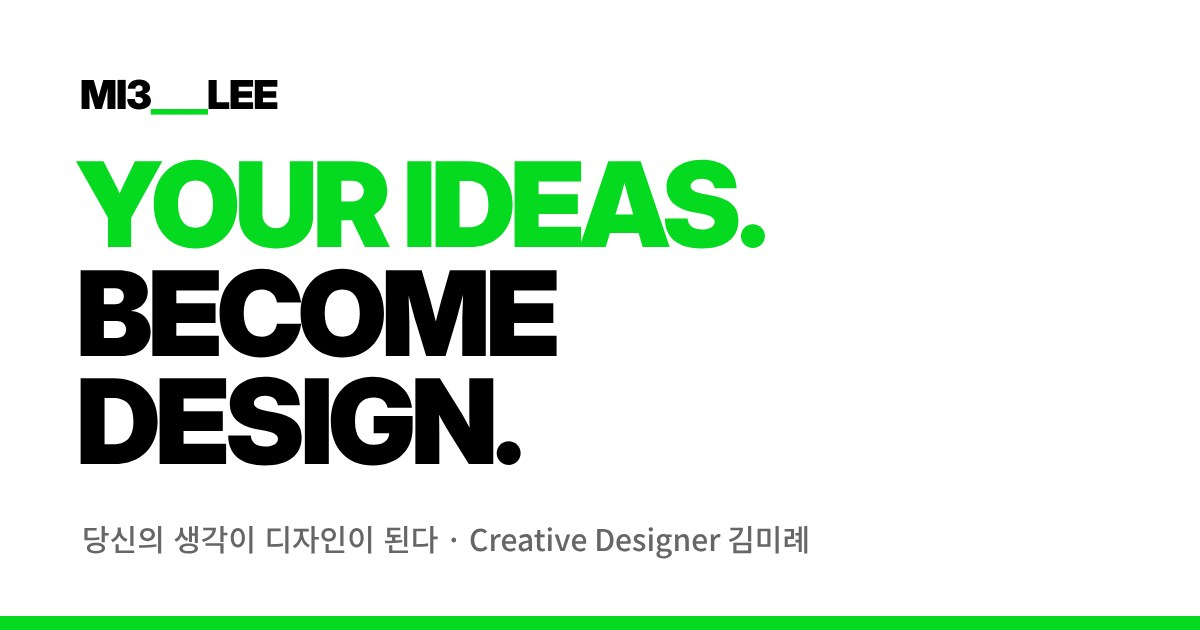
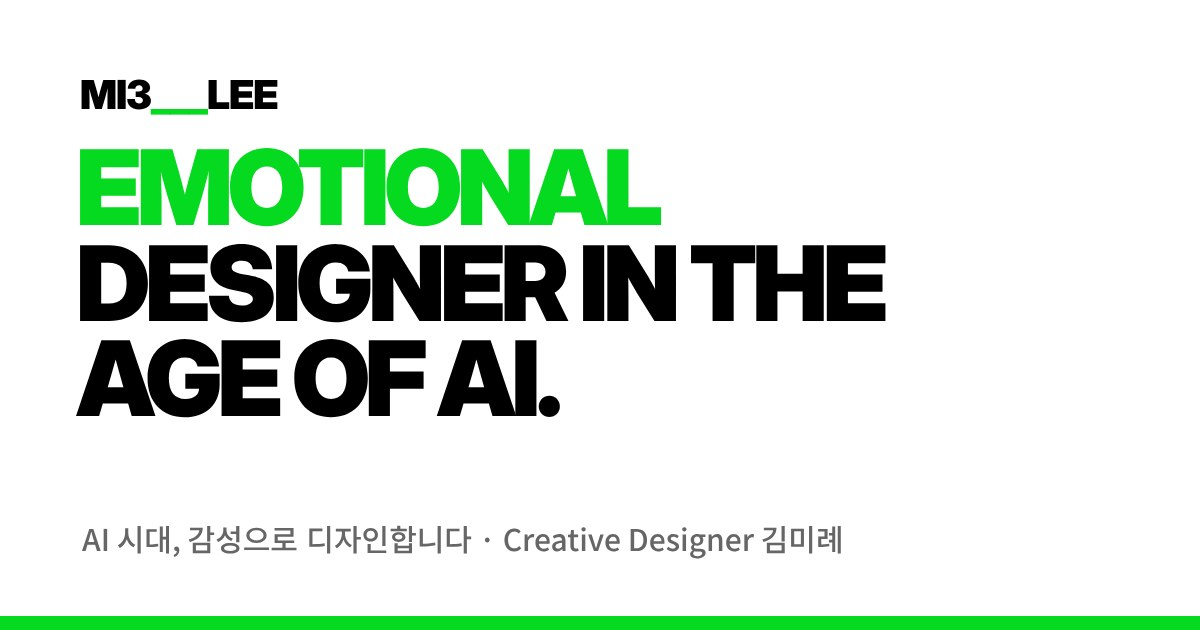
메인 한글 문구와 카톡 공유 이미지를 새 헤드라인에 맞춤
Claude-Session: https://claude.ai/code/session_01EREQmidBdEqMS7PWXq55ay

Changed region(s): [[0.0617, 0.2111, 0.74, 0.754], [0.0617, 0.8143, 0.7092, 0.9048]]

diff --git a/index.html b/index.html
@@ -5,11 +5,11 @@
       <meta charset="UTF-8" />
       <meta name="viewport" content="width=device-width, initial-scale=1.0" />
       <title>MI3___LEE | Creative Designer 김미례</title>
-      <meta name="description" content="당신의 생각이 디자인이 된다. 브랜드, 웹·앱 UI/UX, AI 디자인 포트폴리오">
+      <meta name="description" content="Emotional Designer in the Age of AI. AI 시대, 감성으로 디자인합니다. 브랜드, 웹·앱 UI/UX, AI 디자인 포트폴리오">
       <meta property="og:type" content="website">
       <meta property="og:site_name" content="MI3___LEE">
       <meta property="og:title" content="MI3___LEE | Creative Designer 김미례">
-      <meta property="og:description" content="당신의 생각이 디자인이 된다. 브랜드, 웹·앱 UI/UX, AI 디자인 포트폴리오">
+      <meta property="og:description" content="Emotional Designer in the Age of AI. AI 시대, 감성으로 디자인합니다. 브랜드, 웹·앱 UI/UX, AI 디자인 포트폴리오">
       <meta property="og:url" content="https://mi3lee.pages.dev/">
       <meta property="og:image" content="https://mi3lee.pages.dev/og.jpg">
       <meta property="og:image:width" content="1200">

diff --git a/src/app/pages/Home.tsx b/src/app/pages/Home.tsx
@@ -82,7 +82,7 @@ export const Home = () => {
 
         <motion.div variants={revealVariants} className="flex flex-col md:flex-row md:items-end justify-between gap-12">
           <p className="text-lg md:text-2xl text-zinc-500 max-w-3xl font-normal leading-relaxed break-keep">
-            당신의 생각이 디자인이 된다. <br />
+            AI 시대, 감성으로 디자인합니다. <br />
             아이디어에서 브랜드까지, 생각을 새로운 가치로 완성합니다.
           </p>
           
